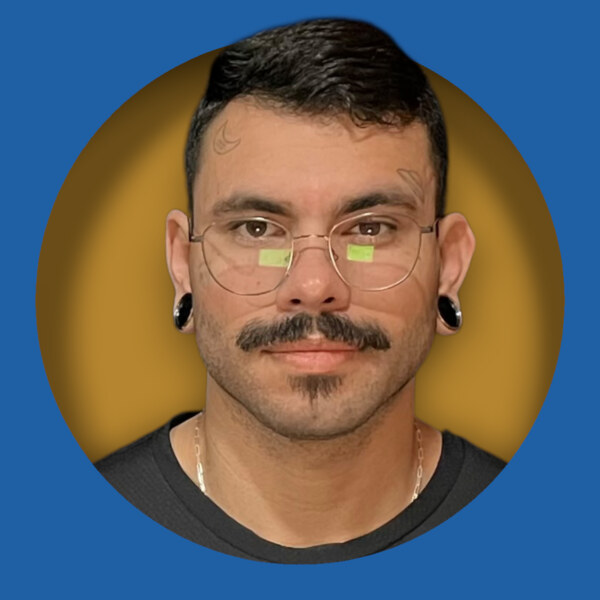
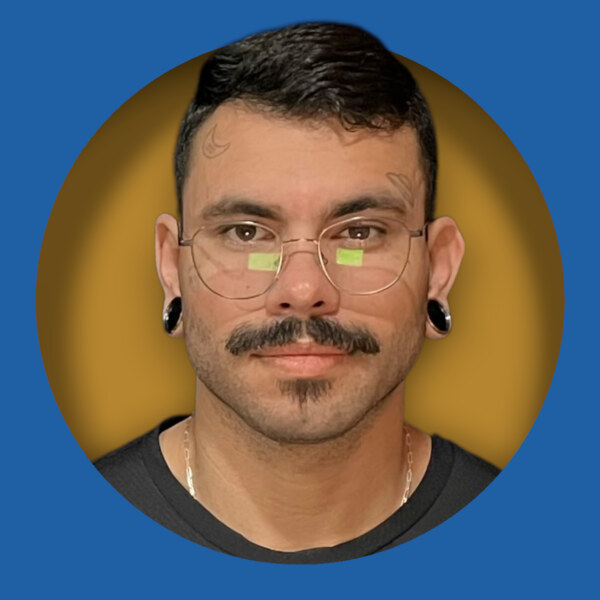
Sobre: foto de perfil ajustada (nova versão, mais reta)
Claude-Session: https://claude.ai/code/session_012SUkH9mGPKM6gGvc5z8sW8

Changed region(s): [[0.21, 0.0, 0.84, 0.93], [0.15, 0.75, 0.18, 0.78]]

diff --git a/sobre.html b/sobre.html
@@ -36,7 +36,7 @@
 
     <!-- FOTO DE PERFIL -->
     <div style="text-align: center; margin-bottom: 30px;">
-      <img src="foto-perfil.jpg?v=2" alt="Cássio Pereira" style="width: 180px; height: 180px; border-radius: 50%; object-fit: cover; box-shadow: 0 4px 12px rgba(0,0,0,0.12);">
+      <img src="foto-perfil.jpg?v=3" alt="Cássio Pereira" style="width: 180px; height: 180px; border-radius: 50%; object-fit: cover; box-shadow: 0 4px 12px rgba(0,0,0,0.12);">
     </div>
 
     <!-- TEXTO DE APRESENTAÇÃO -->
